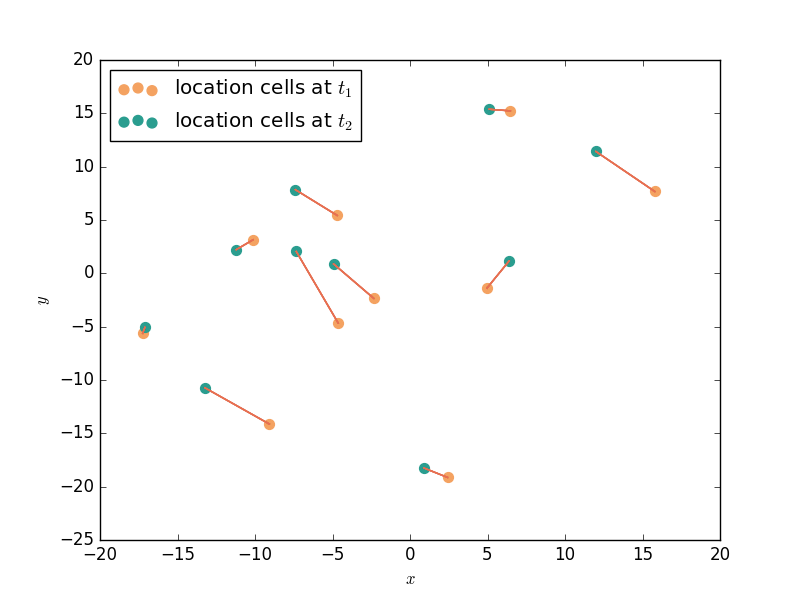
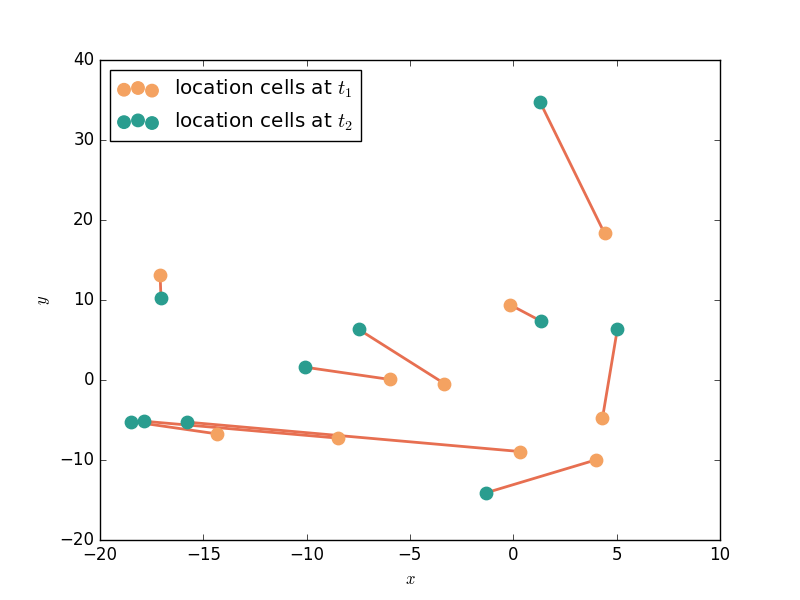
Progress OT

diff --git a/Chapters/05.OptimalTransport/optimal_transport.py b/Chapters/05.OptimalTransport/optimal_transport.py
@@ -1,6 +1,6 @@
 """
 Created on Tuesday 20 February 2018
-Last update: Saturday 03 March 2018
+Last update: Sunday 11 March 2018
 
 @author: Michiel Stock
 michielfmstock@gmail.com
@@ -58,42 +58,49 @@ def kantorovich_brute_force(C):
     return best_perm, best_cost
 
 
-def compute_optimal_transport(C, r, c, lam, epsilon=1e-8,
-                verbose=False):
+def compute_optimal_transport(C, a, b, lam, epsilon=1e-8,
+                verbose=False, return_iterations=False):
     """
     Computes the optimal transport matrix and Slinkhorn distance using the
     Sinkhorn-Knopp algorithm
 
     Inputs:
         - C : cost matrix (n x m)
-        - r : vector of marginals (n, )
-        - c : vector of marginals (m, )
+        - a : vector of marginals (n, )
+        - b : vector of marginals (m, )
         - lam : strength of the entropic regularization
         - epsilon : convergence parameter
         - verbose : report number of steps while running
+        - return_iterations : report number of iterations till convergence,
+                default False
 
     Output:
         - P : optimal transport matrix (n x m)
         - dist : Sinkhorn distance
+        - n_iterations : number of iterations, if `return_iterations` is set to
+                        True
     """
     n, m = C.shape
     P = np.exp(- lam * C)
-    P /= P.sum()
-    u = np.zeros(n)
     # normalize this matrix
     iteration = 0
     while True:
         iteration += 1
         u = P.sum(1)  # marginals of rows
-        error = np.max(np.abs(u - r))
-        if verbose: print('Iteration {}: error={}'.format(
-                            iteration, error
+        max_deviation = np.max(np.abs(u - a))
+        if verbose: print('Iteration {}: max deviation={}'.format(
+                            iteration, max_deviation
                         ))
-        if error < epsilon:
+        if max_deviation < epsilon:
             break
-        P *= (r / u).reshape((-1, 1))
-        P *= (c / P.sum(0)).reshape((1, -1))
-    return P, np.sum(P * C)
+        # scale rows
+        P *= (a / u).reshape((-1, 1))
+        # scale columns
+        P *= (b / P.sum(0)).reshape((1, -1))
+    if return_iterations:
+        return P, np.sum(P * C), iteration
+    else:
+        return P, np.sum(P * C)
 
 def barrycenters_entropic(B, C, weights, lam=1, L=100):
     """
@@ -110,7 +117,7 @@ def barrycenters_entropic(B, C, weights, lam=1, L=100):
         - L: number of Sinkhorn updates
 
     Output:
-        - a: barycenter (probability vector)
+        - a: barrycenter (probability vector)
     """
     n, s = B.shape
     K = np.exp(- lam * C)
@@ -142,7 +149,7 @@ if __name__ == '__main__':
     plt.savefig('Figures/simpleinterpol.png')
 
     # images
-    dim = 40
+    dim = 50
     B = np.zeros((dim**2, 4))
 
     # square
@@ -151,7 +158,9 @@ if __name__ == '__main__':
     B[:,0] = square.flatten()
 
     # circle
-    circle = np.array([[(i-dim/2)**2+(j-dim/2)**2 < dim**2 / 4**2for i in range(dim)]
+    circle = np.array([[(i-dim/2)**2+(j-dim/2)**2 < dim**2 / 4**2 for i in range(dim)]
+        for j in range(dim)], dtype=float)
+    circle -= np.array([[(i-dim/2)**2+(j-dim/2)**2 < dim**2 / 6**2 for i in range(dim)]
         for j in range(dim)], dtype=float)
     B[:,1] = circle.flatten()
 
@@ -160,16 +169,27 @@ if __name__ == '__main__':
         for j in range(dim)], dtype=float)
     B[:,2] = diamond.flatten()
 
+    """
     # cross
     cross = np.zeros((dim, dim))
     cross[dim//3:-dim//3,:] = 1
     cross[:, dim//3:-dim//3] = 1
     B[:,3] = cross.flatten()
+    """
+
+    # two blobs
+
+    two_blobs = np.zeros((dim, dim))
+    two_blobs[:] += np.array([[(i-dim/4)**2+(j-dim/4)**2 < (dim/10)**2 for i in range(dim)]
+        for j in range(dim)], dtype=float)
+    two_blobs[:] += np.array([[(i-dim/4*3)**2+(j-dim/4*3)**2 < (dim/10)**2 for i in range(dim)]
+        for j in range(dim)], dtype=float)
+    B[:,3] = two_blobs.flatten()
 
     B /= B.sum(0)
 
 
-    C = pairwise_distances([[i, j] for i in range(dim)
+    C = pairwise_distances([[i/dim, j/dim] for i in range(dim)
     for j in range(dim)], metric="sqeuclidean")
 
     A = np.zeros((dim**2, 25))
@@ -183,7 +203,8 @@ if __name__ == '__main__':
                     (1-di) * dj,
                     di * dj
             ])
-            A[:,image_nr] = barrycenters_entropic(B, C, weights, lam=0.5, L=100)[:,0]
+            A[:,image_nr] = barrycenters_entropic(B, C, weights,
+                            lam=500, L=50)[:,0]
             image_nr += 1
 
     fig, axes = plt.subplots(nrows=5, ncols=5)
@@ -191,7 +212,7 @@ if __name__ == '__main__':
     for i in range(5):
         for j in range(5):
             ax = axes[i, j]
-            ax.imshow(A[:,i+5*j].reshape((dim,dim))>1e-5, cmap='Greys',
+            ax.imshow(A[:,i+5*j].reshape((dim,dim)) > 1e-5, cmap='Greys',
                             interpolation='nearest')
             ax.set_yticks([])
             ax.set_xticks([])

diff --git a/Chapters/05.OptimalTransport/color_transfer.py b/Chapters/05.OptimalTransport/color_transfer.py
@@ -1,0 +1,111 @@
+"""
+Created on Sunday 28 January 2018
+Last update: Sunday 11 March 2018
+
+@author: Michiel Stock
+michielfmstock@gmail.com
+
+Module for transfering the color between two images
+"""
+
+from optimal_transport import compute_optimal_transport
+import numpy as np
+from skimage import io
+from sklearn.cluster import MiniBatchKMeans as KMeans
+from sklearn.preprocessing import StandardScaler
+from collections import Counter
+from sklearn.metrics.pairwise import pairwise_distances
+import matplotlib.pyplot as plt
+import seaborn as sns
+sns.set_style('white')
+
+image_name1 = 'Figures/butterfly3.jpg'
+image_name2 = 'Figures/butterfly2.jpg'
+
+n_clusters = 400
+
+def clip_image(im):
+    """
+    Clips an image such that its values are between 0 and 255
+    """
+    return np.maximum(0, np.minimum(im, 255))
+
+class Image():
+    """simple class to work with an image"""
+    def __init__(self, image_name, n_clusters=100, use_location=True):
+        super(Image, self).__init__()
+        self.image = io.imread(image_name) + 0.0
+        self.shape = self.image.shape
+        n, m, _ = self.shape
+        X = self.image.reshape(-1, 3)
+        if use_location:
+            col_indices = np.repeat(np.arange(n), m).reshape(-1,1)
+            row_indices = np.tile(np.arange(m), n).reshape(-1,1)
+        #self.standardizer = StandardScaler()
+        #self.standardizer.fit_transform(
+            self.X = np.concatenate([X, row_indices, col_indices], axis=1)
+        else: self.X = X
+        self.kmeans = KMeans(n_clusters=n_clusters)
+        self.kmeans.fit(self.X)
+
+    def compute_clusted_image(self, center_colors=None):
+        """
+        Returns the image with the pixels changes by their cluster center
+
+        If center_colors is provided, uses these for the clusters, otherwise use
+        centers computed by K-means.
+        """
+        clusters = self.kmeans.predict(self.X)
+        if center_colors is None:
+            X_transformed = self.kmeans.cluster_centers_[clusters,:3]
+        else:
+            X_transformed = center_colors[clusters,:3]
+        return clip_image(X_transformed).reshape(self.shape)
+
+    def get_color_distribution(self):
+        """
+        Returns the distribution of the colored pixels
+
+        Returns:
+            - counts : number of pixels in each cluster
+            - centers : colors of every cluster center
+        """
+        clusters = self.kmeans.predict(self.X)
+        count_dict = Counter(clusters)
+        counts = np.array([count_dict[i] for i in range(len(count_dict))],
+                        dtype=float)
+        centers = self.kmeans.cluster_centers_
+        return counts, clip_image(centers[:,:3])
+
+print('loading and clustering images...')
+image1 = Image(image_name1, n_clusters=n_clusters)
+image2 = Image(image_name2, n_clusters=n_clusters)
+
+r, X1 = image1.get_color_distribution()
+c, X2 = image2.get_color_distribution()
+
+C = pairwise_distances(X1, X2, metric="sqeuclidean")
+
+print('performing optimal transport...')
+P, d = compute_optimal_transport(C, r/r.sum(), c/c.sum(), 1e-2)
+
+sns.clustermap(P, row_colors=X1/255, col_colors=X2/255,
+        yticklabels=[], xticklabels=[])
+plt.savefig('Figures/color_mapping.png')
+
+print('computing and plotting color distributions...')
+X1to2 = P @ X2 * n_clusters
+X2to1 = P.T @ X1 * n_clusters
+
+fig, axes = plt.subplots(nrows=2, ncols=2)
+axes[0, 0].imshow(image1.image/255)
+axes[0, 1].imshow(image2.image/255)
+
+axes[1, 0].imshow(image1.compute_clusted_image(X1to2)/255)
+axes[1, 1].imshow(image2.compute_clusted_image(X2to1)/255)
+
+for ax in axes.flatten():
+    ax.set_xticks([])
+    ax.set_yticks([])
+
+fig.savefig('Figures/color_transfer.png')

diff --git a/Chapters/05.OptimalTransport/cell_tracking.py b/Chapters/05.OptimalTransport/cell_tracking.py
@@ -11,18 +11,18 @@ Cell tracking exercise
 import numpy as np
 from optimal_transport import shuffle_rows
 
-np.random.seed(41)
+np.random.seed(2)
 
 # generate cells
 n_cells = 10
-sigma = 10  # initial spread
-delta_sigma = 3  # random movement
+sigma = 8  # initial spread
+delta_sigma = 6  # random movement
 drift = np.array([[-1.5, 3]])  # systematic drift
 
 X1 = np.random.randn(n_cells, 2) * sigma
 X2 = X1 + np.random.randn(n_cells, 2) * delta_sigma  + drift
 
-#shuffle_rows(X2)  # make probem a bit harder
+shuffle_rows(X2)
 
 if __name__ == '__main__':
     import matplotlib.pyplot as plt
@@ -32,13 +32,13 @@ if __name__ == '__main__':
     # plot cell
     def plot_cells(X1, X2):
         fig, ax = plt.subplots()
-        ax.scatter(X1[:,0], X1[:,1], s=50, color=orange,
-                            label=r'location cells at $t_1$')
-        ax.scatter(X2[:,0], X2[:,1], s=50, color=green,
-                            label=r'location cells at $t_2$')
+        ax.scatter(X1[:,0], X1[:,1], s=80, color=orange,
+                            label=r'location cells at $t_1$', zorder=2)
+        ax.scatter(X2[:,0], X2[:,1], s=80, color=green,
+                            label=r'location cells at $t_2$', zorder=2)
         ax.set_ylabel(r'$y$')
         ax.set_xlabel(r'$x$')
-        ax.legend(loc=0)
+        ax.legend(loc=2)
         return fig, ax
 
     fig, ax = plot_cells(X1, X2)
@@ -49,6 +49,6 @@ if __name__ == '__main__':
     best_perm, best_cost = kantorovich_brute_force(C)
 
     for i, i_m in enumerate(best_perm):
-        ax.plot([X1[:,0], X2[:,0]], [X1[:,1], X2[:,1]],
-                color=red, alpha=0.5)
+        ax.plot([X1[i,0], X2[i_m,0]], [X1[i,1], X2[i_m,1]],
+                color=red, alpha=1, zorder=1, lw=2)
     fig.savefig('Figures/cells_locations_matched.png')

diff --git a/Chapters/05.OptimalTransport/figure_ot_example.py b/Chapters/05.OptimalTransport/figure_ot_example.py
@@ -1,0 +1,36 @@
+"""
+Created on Sunday 11 March 2018
+Last update: -
+
+@author: Michiel Stock
+michielfmstock@gmail.com
+
+Example figure of optimal transport.
+"""
+
+from optimal_transport import *
+import matplotlib.pyplot as plt
+
+# normal distribution
+x = np.linspace(-4, 4, num=100)
+a = np.exp(- x**2)
+a /= a.sum()  # normalize
+
+b = np.exp(- (x-1.2)**2/0.3) + 0.5 * np.exp(-(x+0.7)**2 / 0.5)
+b /= b.sum()
+
+C = pairwise_distances(x.reshape((-1,1)), metric="sqeuclidean")
+P, _ = compute_optimal_transport(C, a, b, lam=50)
+
+fig, axes = plt.subplots(nrows=2, ncols=2)
+
+axes[1,0].plot(a, x, lw=3, color=orange)
+axes[1,0].set_xlim([a.max()+0.01, 0])
+axes[0,1].plot(x, b, lw=3, color=yellow)
+axes[1,1].imshow(P, cmap='Greens')
+
+for ax in axes.flatten():
+    ax.set_yticks([])
+    ax.set_xticks([])
+
+fig.savefig('Figures/ot_example.png')

diff --git a/Chapters/05.OptimalTransport/figure_distributions.py b/Chapters/05.OptimalTransport/figure_distributions.py
@@ -28,11 +28,11 @@ x = np.arange(10)
 y = np.exp(-x/2)
 y /= y.sum()
 ax1.set_xlabel(r'$x$')
-ax1.set_ylabel(r'$P(X=x)$')
+ax1.set_ylabel(r'$\mathcal{P}(X=x)$')
 ax1.scatter(x, y, color=orange)
 for xi, yi in zip(x, y):
     ax1.plot([xi, xi], [0, yi], color=blue, linestyle='--')
-ax1.set_ylim([0, max(y)+1])
+ax1.set_ylim([0, max(y)+0.1])
 ax1.set_xlim([-0.5, 10])
 ax1.set_title('Discrete probability\ndistribution')
 
@@ -57,7 +57,7 @@ ax1.set_title('Weighted points')
 
 for ax in (ax0, ax1):
     ax.set_xlabel(r'$x_1$')
-    ax.set_ylabel(r'$x_1$')
+    ax.set_ylabel(r'$x_2$')
 
 fig.tight_layout()
 fig.savefig('Figures/discrete_probs2.png')
